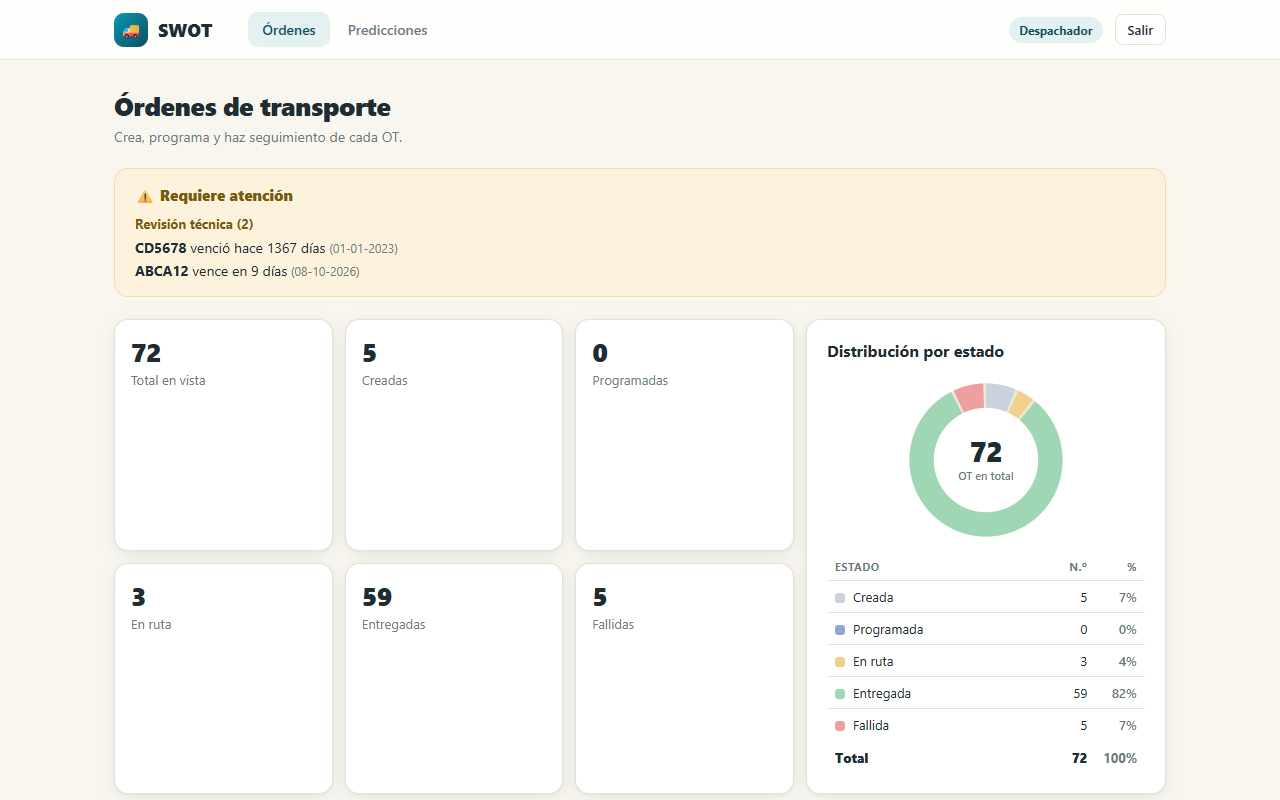
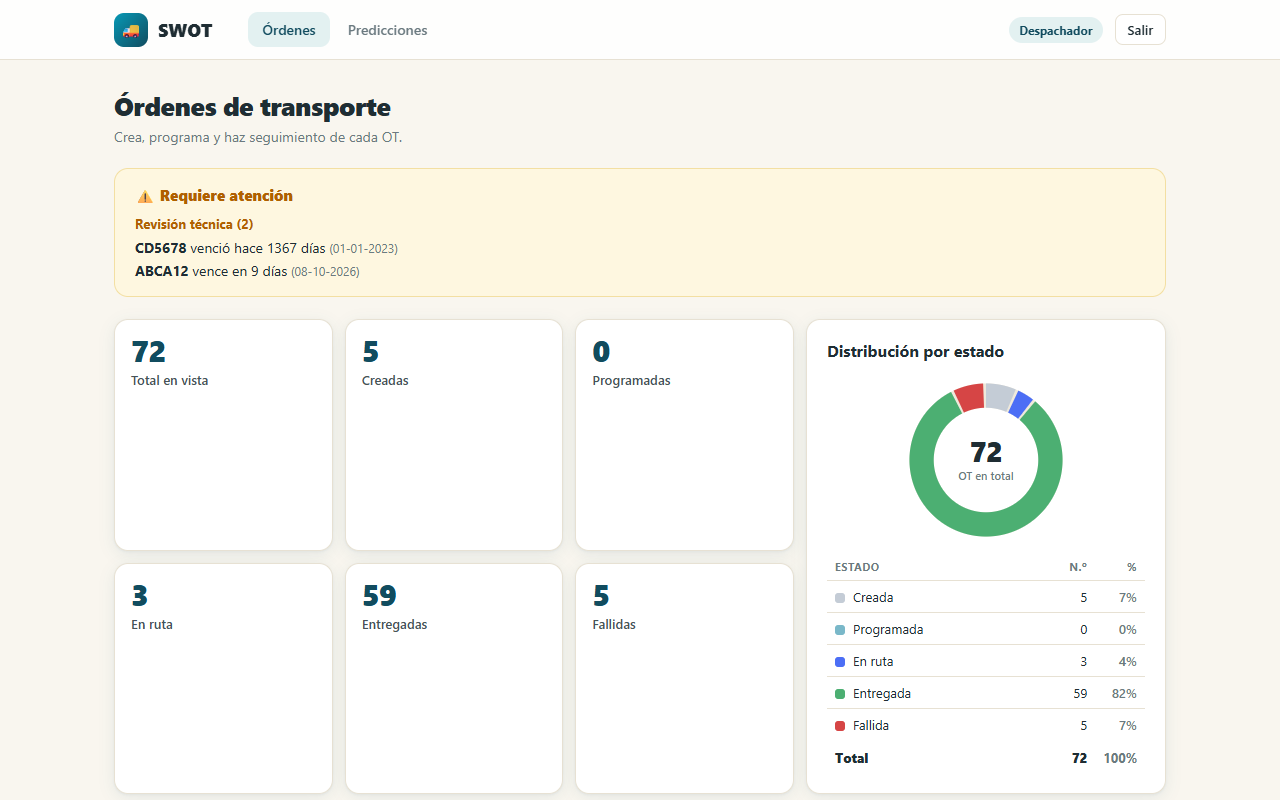
Design tokens: accessible status colors (success, progress, warning, danger, neutral), clearer driver button and stat labels, refreshed screenshots

diff --git a/frontend/src/index.css b/frontend/src/index.css
@@ -11,7 +11,14 @@
   --accent: #0799b6;
   --secondary: #4a6eb0;
   --sand: #f2e6cf;
-  --danger: #a24a4a;
+  --danger: #c5221f;
+  /* Status semantics (bg / text pairs meet WCAG AA) */
+  --success-bg: #e6f4ea; --success: #137333;
+  --progress-bg: #e8eeff; --progress: #1a47c8;
+  --warning-bg: #fef7e0; --warning: #b06000; --warning-line: #f3dfa2;
+  --danger-bg: #fce8e6; --danger-line: #f4b9b5;
+  --neutral-bg: #eef1f4; --neutral: #4a5866;
+  --text-2: #465358; /* labels under big numbers: dark grey, not pure black */
   --shadow: 0 1px 2px rgba(17, 76, 95, 0.06), 0 4px 16px rgba(17, 76, 95, 0.08);
   --radius: 14px;
   font-family: Inter, system-ui, -apple-system, 'Segoe UI', Roboto, sans-serif;
@@ -52,10 +59,10 @@ h1, h2, h3, p { margin: 0; }
 .btn-primary:hover { background: var(--primary-dark); border-color: var(--primary-dark); }
 .btn-ghost { background: transparent; border-color: transparent; color: var(--muted); }
 .btn-ghost:hover { background: var(--primary-soft); color: var(--primary); border-color: transparent; }
-.btn-danger { background: #fbeaea; border-color: #f0cccc; color: var(--danger); }
-.btn-danger:hover { background: #f8dcdc; border-color: #e8b8b8; }
-.btn-success { background: #4f9e7f; border-color: #4f9e7f; color: #fff; }
-.btn-success:hover { background: #43886c; border-color: #43886c; }
+.btn-danger { background: var(--danger-bg); border-color: var(--danger-line); color: var(--danger); }
+.btn-danger:hover { background: #f9d6d3; border-color: var(--danger); }
+.btn-success { background: var(--success); border-color: var(--success); color: #fff; }
+.btn-success:hover { background: #0f5c29; border-color: #0f5c29; }
 .btn-sm { padding: 6px 12px; font-size: 13px; border-radius: 8px; }
 .btn-block { width: 100%; padding: 14px 16px; font-size: 16px; }
 
@@ -117,7 +124,6 @@ h1, h2, h3, p { margin: 0; }
   font-weight: 700;
   padding: 5px 10px;
   border-radius: 999px;
-  text-transform: capitalize;
 }
 
 .container { max-width: 1100px; margin: 0 auto; padding: 28px 24px 60px; }
@@ -145,8 +151,8 @@ h1, h2, h3, p { margin: 0; }
   padding: 14px 16px;
   box-shadow: var(--shadow);
 }
-.stat-num { font-size: 26px; font-weight: 800; letter-spacing: -0.02em; }
-.stat-label { font-size: 13px; color: var(--muted); margin-top: 2px; }
+.stat-num { font-size: 30px; font-weight: 800; letter-spacing: -0.02em; line-height: 1.1; color: var(--primary); }
+.stat-label { font-size: 13px; font-weight: 500; color: var(--text-2); margin-top: 4px; }
 
 /* ===== Formulario nueva OT ===== */
 .form-row { display: grid; grid-template-columns: repeat(3, 1fr); gap: 12px; align-items: end; }
@@ -188,11 +194,12 @@ table.table { width: 100%; border-collapse: collapse; font-size: 14px; }
   font-weight: 700;
 }
 .badge::before { content: ''; width: 6px; height: 6px; border-radius: 50%; background: currentColor; }
-.badge-created { background: #eef0ee; color: #5b6b70; }
-.badge-scheduled { background: #e4ebf7; color: #3d5a99; }
-.badge-in-transit { background: #fbf0d6; color: #8a6418; }
-.badge-delivered { background: #e0f3e8; color: #2f7a53; }
-.badge-failed { background: #fbe4e4; color: #a24a4a; }
+.badge-created { background: var(--neutral-bg); color: var(--neutral); }
+.badge-scheduled { background: var(--primary-soft); color: var(--primary); }
+.badge-in-transit { background: var(--progress-bg); color: var(--progress); }
+.badge-delivered { background: var(--success-bg); color: var(--success); }
+.badge-warning { background: var(--warning-bg); color: var(--warning); }
+.badge-failed { background: var(--danger-bg); color: var(--danger); box-shadow: inset 0 0 0 1px var(--danger-line); }
 
 /* ===== Modal ===== */
 .overlay {
@@ -222,9 +229,9 @@ table.table { width: 100%; border-collapse: collapse; font-size: 14px; }
 .modal-body { display: flex; flex-direction: column; gap: 14px; }
 .modal-foot { display: flex; justify-content: flex-end; gap: 8px; margin-top: 20px; }
 .error-box {
-  background: #fbeaea;
-  border: 1px solid #f0cccc;
-  color: #a24a4a;
+  background: var(--danger-bg);
+  border: 1px solid var(--danger-line);
+  color: var(--danger);
   padding: 10px 12px;
   border-radius: 10px;
   font-size: 14px;
@@ -306,7 +313,7 @@ table.table { width: 100%; border-collapse: collapse; font-size: 14px; }
   box-shadow: 0 10px 30px rgba(16, 24, 40, 0.3);
   animation: pop 0.2s ease;
 }
-.toast-error { background: #fbe1e1; color: #8f3b3b; }
+.toast-error { background: var(--danger-bg); color: var(--danger); box-shadow: inset 0 0 0 1px var(--danger-line), 0 10px 30px rgba(16, 24, 40, 0.2); }
 
 @keyframes fade { from { opacity: 0; } to { opacity: 1; } }
 @keyframes pop { from { opacity: 0; transform: translateY(8px) scale(0.98); } to { opacity: 1; transform: none; } }
@@ -507,10 +514,10 @@ table.table { width: 100%; border-collapse: collapse; font-size: 14px; }
 @media (prefers-reduced-motion: reduce) { .truck { animation: none; } }
 
 /* ===== Alerts, export buttons, segmented control, guide photo, bar chart ===== */
-.alerts { background: #fdf3dc; border: 1px solid #f0dfb0; border-radius: var(--radius); padding: 16px 20px; margin: 22px 0 0; }
-.alerts-title { font-size: 15px; font-weight: 800; color: #7a5a12; margin-bottom: 10px; }
+.alerts { background: var(--warning-bg); border: 1px solid var(--warning-line); border-radius: var(--radius); padding: 16px 20px; margin: 22px 0 0; }
+.alerts-title { font-size: 15px; font-weight: 800; color: var(--warning); margin-bottom: 10px; }
 .alerts-grid { display: grid; grid-template-columns: repeat(auto-fit, minmax(260px, 1fr)); gap: 12px 28px; }
-.alerts h3 { font-size: 13px; font-weight: 700; color: #7a5a12; margin: 0 0 6px; }
+.alerts h3 { font-size: 13px; font-weight: 700; color: var(--warning); margin: 0 0 6px; }
 .alerts ul { list-style: none; margin: 0; padding: 0; display: flex; flex-direction: column; gap: 4px; font-size: 14px; }
 .alert-more { color: #7a5a12; font-size: 13px; }
 .export-buttons { display: flex; gap: 6px; }
@@ -588,9 +595,9 @@ table.table { width: 100%; border-collapse: collapse; font-size: 14px; }
 .map-box .leaflet-container { font: inherit; }
 .map-note { margin-top: 10px; }
 .map-pin span { display: grid; place-items: center; width: 34px; height: 34px; border-radius: 50%; background: var(--primary); color: #fff; font-weight: 800; font-size: 14px; border: 3px solid #fff; box-shadow: 0 2px 8px rgba(17, 76, 95, 0.4); }
-.map-pin-active span { background: #f0cf8f; color: #5a3f06; }
+.map-pin-active span { background: var(--progress); color: #fff; }
 .map-pin-me span { background: var(--accent); font-size: 16px; }
-.map-pin-truck span { background: #fff; border-color: #f0cf8f; font-size: 17px; }
+.map-pin-truck span { background: #fff; border-color: var(--progress); font-size: 17px; }
 .map-pin-stale span { background: #e7e1d3; border-color: #c9c3b3; font-size: 17px; filter: grayscale(1); }
 .map-pin-pick span { background: #ee9f9f; font-size: 16px; }
 .driver-map { padding: 12px; margin: 14px 0 0; }
@@ -599,7 +606,7 @@ table.table { width: 100%; border-collapse: collapse; font-size: 14px; }
 
 /* Driver: location sharing banner and the "how to get there" link */
 .tracking { margin: 14px 0 0; padding: 10px 14px; border-radius: 12px; font-size: 13px; font-weight: 600; line-height: 1.4; }
-.tracking-sharing { background: #e0f3e8; color: #2f7a53; }
+.tracking-sharing { background: var(--success-bg); color: var(--success); }
 .tracking-denied, .tracking-error, .tracking-unsupported { background: #fbf0d6; color: #8a6418; }
 .pill-link { text-decoration: none; cursor: pointer; background: var(--primary-soft); color: var(--primary); }
 .pill-link:hover { background: #d3e8e8; }

diff --git a/frontend/src/pages/Otif.jsx b/frontend/src/pages/Otif.jsx
@@ -6,7 +6,7 @@ import Reveal from '../components/Reveal';
 import DonutChart from '../components/DonutChart';
 import BarChart from '../components/BarChart';
 import { useToast } from '../components/Toast';
-import { downloadFile } from '../utils/format';
+import { CHART, downloadFile } from '../utils/format';
 
 const WEEKS_SHOWN = 12;
 const MONTHS = ['ene', 'feb', 'mar', 'abr', 'may', 'jun', 'jul', 'ago', 'sep', 'oct', 'nov', 'dic'];
@@ -24,7 +24,7 @@ const weekLabel = (period) => {
 };
 
 // Best and worst first: OTIF % of each driver or customer, with how many orders it is based on
-const RANK_COLORS = (pct) => (pct >= 90 ? '#9fd6b4' : pct >= 70 ? '#f2d58a' : '#ee9f9f');
+const RANK_COLORS = (pct) => (pct >= 90 ? CHART.success : pct >= 70 ? CHART.warning : CHART.danger);
 function Ranking({ title, rows, loading }) {
     const ranked = rows.map((r) => ({ ...r, pct: Math.round((r.otif / r.total) * 100) })).sort((a, b) => b.pct - a.pct || b.total - a.total);
     return (
@@ -176,8 +176,8 @@ function Otif() {
                             loading={loading}
                             totalLabel="OT medidas"
                             data={[
-                                { label: 'OTIF', color: '#9fd6b4', count: stats?.otif ?? 0 },
-                                { label: 'No cumplen', color: '#ee9f9f', count: total - (stats?.otif ?? 0) },
+                                { label: 'OTIF', color: CHART.success, count: stats?.otif ?? 0 },
+                                { label: 'No cumplen', color: CHART.danger, count: total - (stats?.otif ?? 0) },
                             ]}
                         />
                     </Reveal>

diff --git a/frontend/src/pages/Vehicles.jsx b/frontend/src/pages/Vehicles.jsx
@@ -4,7 +4,7 @@ import VehicleModal from '../components/VehicleModal';
 import DonutChart from '../components/DonutChart';
 import AlertsPanel from '../components/AlertsPanel';
 import Reveal from '../components/Reveal';
-import { formatDay } from '../utils/format';
+import { CHART, formatDay } from '../utils/format';
 
 const columns = [
     { header: 'Patente', cell: (v) => <strong>{v.plate}</strong> },
@@ -47,8 +47,8 @@ const overview = (vehicles, loading) => {
                         loading={loading}
                         totalLabel="vehículos"
                         data={[
-                            { label: 'Vigentes', color: '#9fd6b4', count: valid },
-                            { label: 'Vencidas', color: '#ee9f9f', count: vehicles.length - valid },
+                            { label: 'Vigentes', color: CHART.success, count: valid },
+                            { label: 'Vencidas', color: CHART.danger, count: vehicles.length - valid },
                         ]}
                     />
                 </Reveal>

diff --git a/frontend/src/pages/Containers.jsx b/frontend/src/pages/Containers.jsx
@@ -10,9 +10,9 @@ import ContainerModal from '../components/ContainerModal';
 import ContainerEventModal from '../components/ContainerEventModal';
 import ContainerDetailModal from '../components/ContainerDetailModal';
 import { useToast } from '../components/Toast';
-import { CARGO_LABELS, CONTAINER_STATUS_LABELS, formatContainerNumber, formatDate, formatDay, formatMoney } from '../utils/format';
+import { CARGO_LABELS, CHART, CONTAINER_STATUS_LABELS, formatContainerNumber, formatDate, formatDay, formatMoney } from '../utils/format';
 
-const STATUS_COLORS = { InYard: '#9fd6b4', Expected: '#8fa7d6', Departed: '#c9d3dd' };
+const STATUS_COLORS = { InYard: CHART.progress, Expected: CHART.neutral, Departed: CHART.scheduled };
 const EMPTY_FILTERS = { status: '', cargoType: '', search: '' };
 
 // Second line of a card: how long it has been in the yard, when it is expected, or when it left

diff --git a/frontend/src/pages/Orders.jsx b/frontend/src/pages/Orders.jsx
@@ -10,14 +10,14 @@ import AlertsPanel from '../components/AlertsPanel';
 import Reveal from '../components/Reveal';
 import DonutChart from '../components/DonutChart';
 import { useToast } from '../components/Toast';
-import { STATUS_LABELS, STATUS_PLURALS, formatDate, formatDay, downloadFile } from '../utils/format';
+import { CHART, STATUS_LABELS, STATUS_PLURALS, formatDate, formatDay, downloadFile } from '../utils/format';
 
 const STATUS_COLORS = {
-    Created: '#c9d3dd',
-    Scheduled: '#8fa7d6',
-    InTransit: '#f0cf8f',
-    Delivered: '#9fd6b4',
-    Failed: '#ee9f9f',
+    Created: CHART.neutral,
+    Scheduled: CHART.scheduled,
+    InTransit: CHART.progress,
+    Delivered: CHART.success,
+    Failed: CHART.danger,
 };
 
 const EMPTY_FILTERS = { status: '', from: '', to: '' };

diff --git a/frontend/src/pages/Predictions.jsx b/frontend/src/pages/Predictions.jsx
@@ -19,7 +19,7 @@ const FEATURE_LABELS = {
     distanceKm: 'Distancia', weightKg: 'Peso', leadDays: 'Días de plazo', itemCount: 'Cantidad de productos',
     createdHour: 'Hora de creación', dueOnMonday: 'Entrega el lunes',
 };
-const LEVELS = { low: ['Riesgo bajo', 'badge-delivered'], medium: ['Riesgo medio', 'badge-in-transit'], high: ['Riesgo alto', 'badge-failed'] };
+const LEVELS = { low: ['Riesgo bajo', 'badge-delivered'], medium: ['Riesgo medio', 'badge-warning'], high: ['Riesgo alto', 'badge-failed'] };
 const DEFAULT_ORDER = { distanceKm: 40, weightKg: 1500, leadDays: 3, itemCount: 3, createdHour: 10, dueOnMonday: 0 };
 
 const pct = (n) => `${Math.round(n * 100)}%`;

diff --git a/frontend/src/components/BarChart.jsx b/frontend/src/components/BarChart.jsx
@@ -1,9 +1,10 @@
 // src/components/BarChart.jsx
 import { useCallback, useRef, useState } from 'react';
+import { CHART } from '../utils/format';
 
 // Bar chart in plain SVG for percentages (0-100) over time.
 // data = [{ label, value (0-100 or null), detail }]. Bars with a null value are drawn as an empty slot.
-function BarChart({ title, data, loading, color = '#8fa7d6', emptyText = 'Sin datos para graficar.' }) {
+function BarChart({ title, data, loading, color = CHART.progress, emptyText = 'Sin datos para graficar.' }) {
     const [active, setActive] = useState(null);
     const observerRef = useRef(null);
     const [available, setAvailable] = useState(320);

diff --git a/frontend/src/components/ContainerStatusBadge.jsx b/frontend/src/components/ContainerStatusBadge.jsx
@@ -1,8 +1,8 @@
 // src/components/ContainerStatusBadge.jsx
 import { CONTAINER_STATUS_LABELS } from '../utils/format';
 
-// Expected = on its way (blue), InYard = stored (green), Departed = gone (gray)
-const CLASSES = { Expected: 'badge-scheduled', InYard: 'badge-delivered', Departed: 'badge-created' };
+// Expected = not here yet (gray), InYard = active in the yard (indigo), Departed = gone (teal)
+const CLASSES = { Expected: 'badge-created', InYard: 'badge-in-transit', Departed: 'badge-scheduled' };
 
 function ContainerStatusBadge({ status }) {
     return <span className={`badge ${CLASSES[status]}`}>{CONTAINER_STATUS_LABELS[status]}</span>;

diff --git a/frontend/src/pages/DriverRoute.jsx b/frontend/src/pages/DriverRoute.jsx
@@ -98,7 +98,7 @@ function DriverRoute() {
                                         <button className="btn btn-success" onClick={() => setDelivering(order)}>Entregar</button>
                                         <button className="btn btn-danger" disabled={updating === order.id}
                                             onClick={() => setFailing(order)}>
-                                            Fallida
+                                            Reportar falla
                                         </button>
                                     </>
                                 )}

diff --git a/frontend/src/utils/format.js b/frontend/src/utils/format.js
@@ -1,3 +1,6 @@
+// Chart colors, matching the status badges: green = done, indigo = moving, amber = warning, red = failed, slate = neutral
+export const CHART = { success: '#4caf72', progress: '#4c6ef5', warning: '#f2b33d', danger: '#d64545', neutral: '#c4ccd6', scheduled: '#7ab8c9' };
+
 // Status and role codes are English in the database and the API; the screens show them in Spanish
 export const STATUS_LABELS = {
     Created: 'Creada', Scheduled: 'Programada', InTransit: 'En ruta', Delivered: 'Entregada', Failed: 'Fallida',
